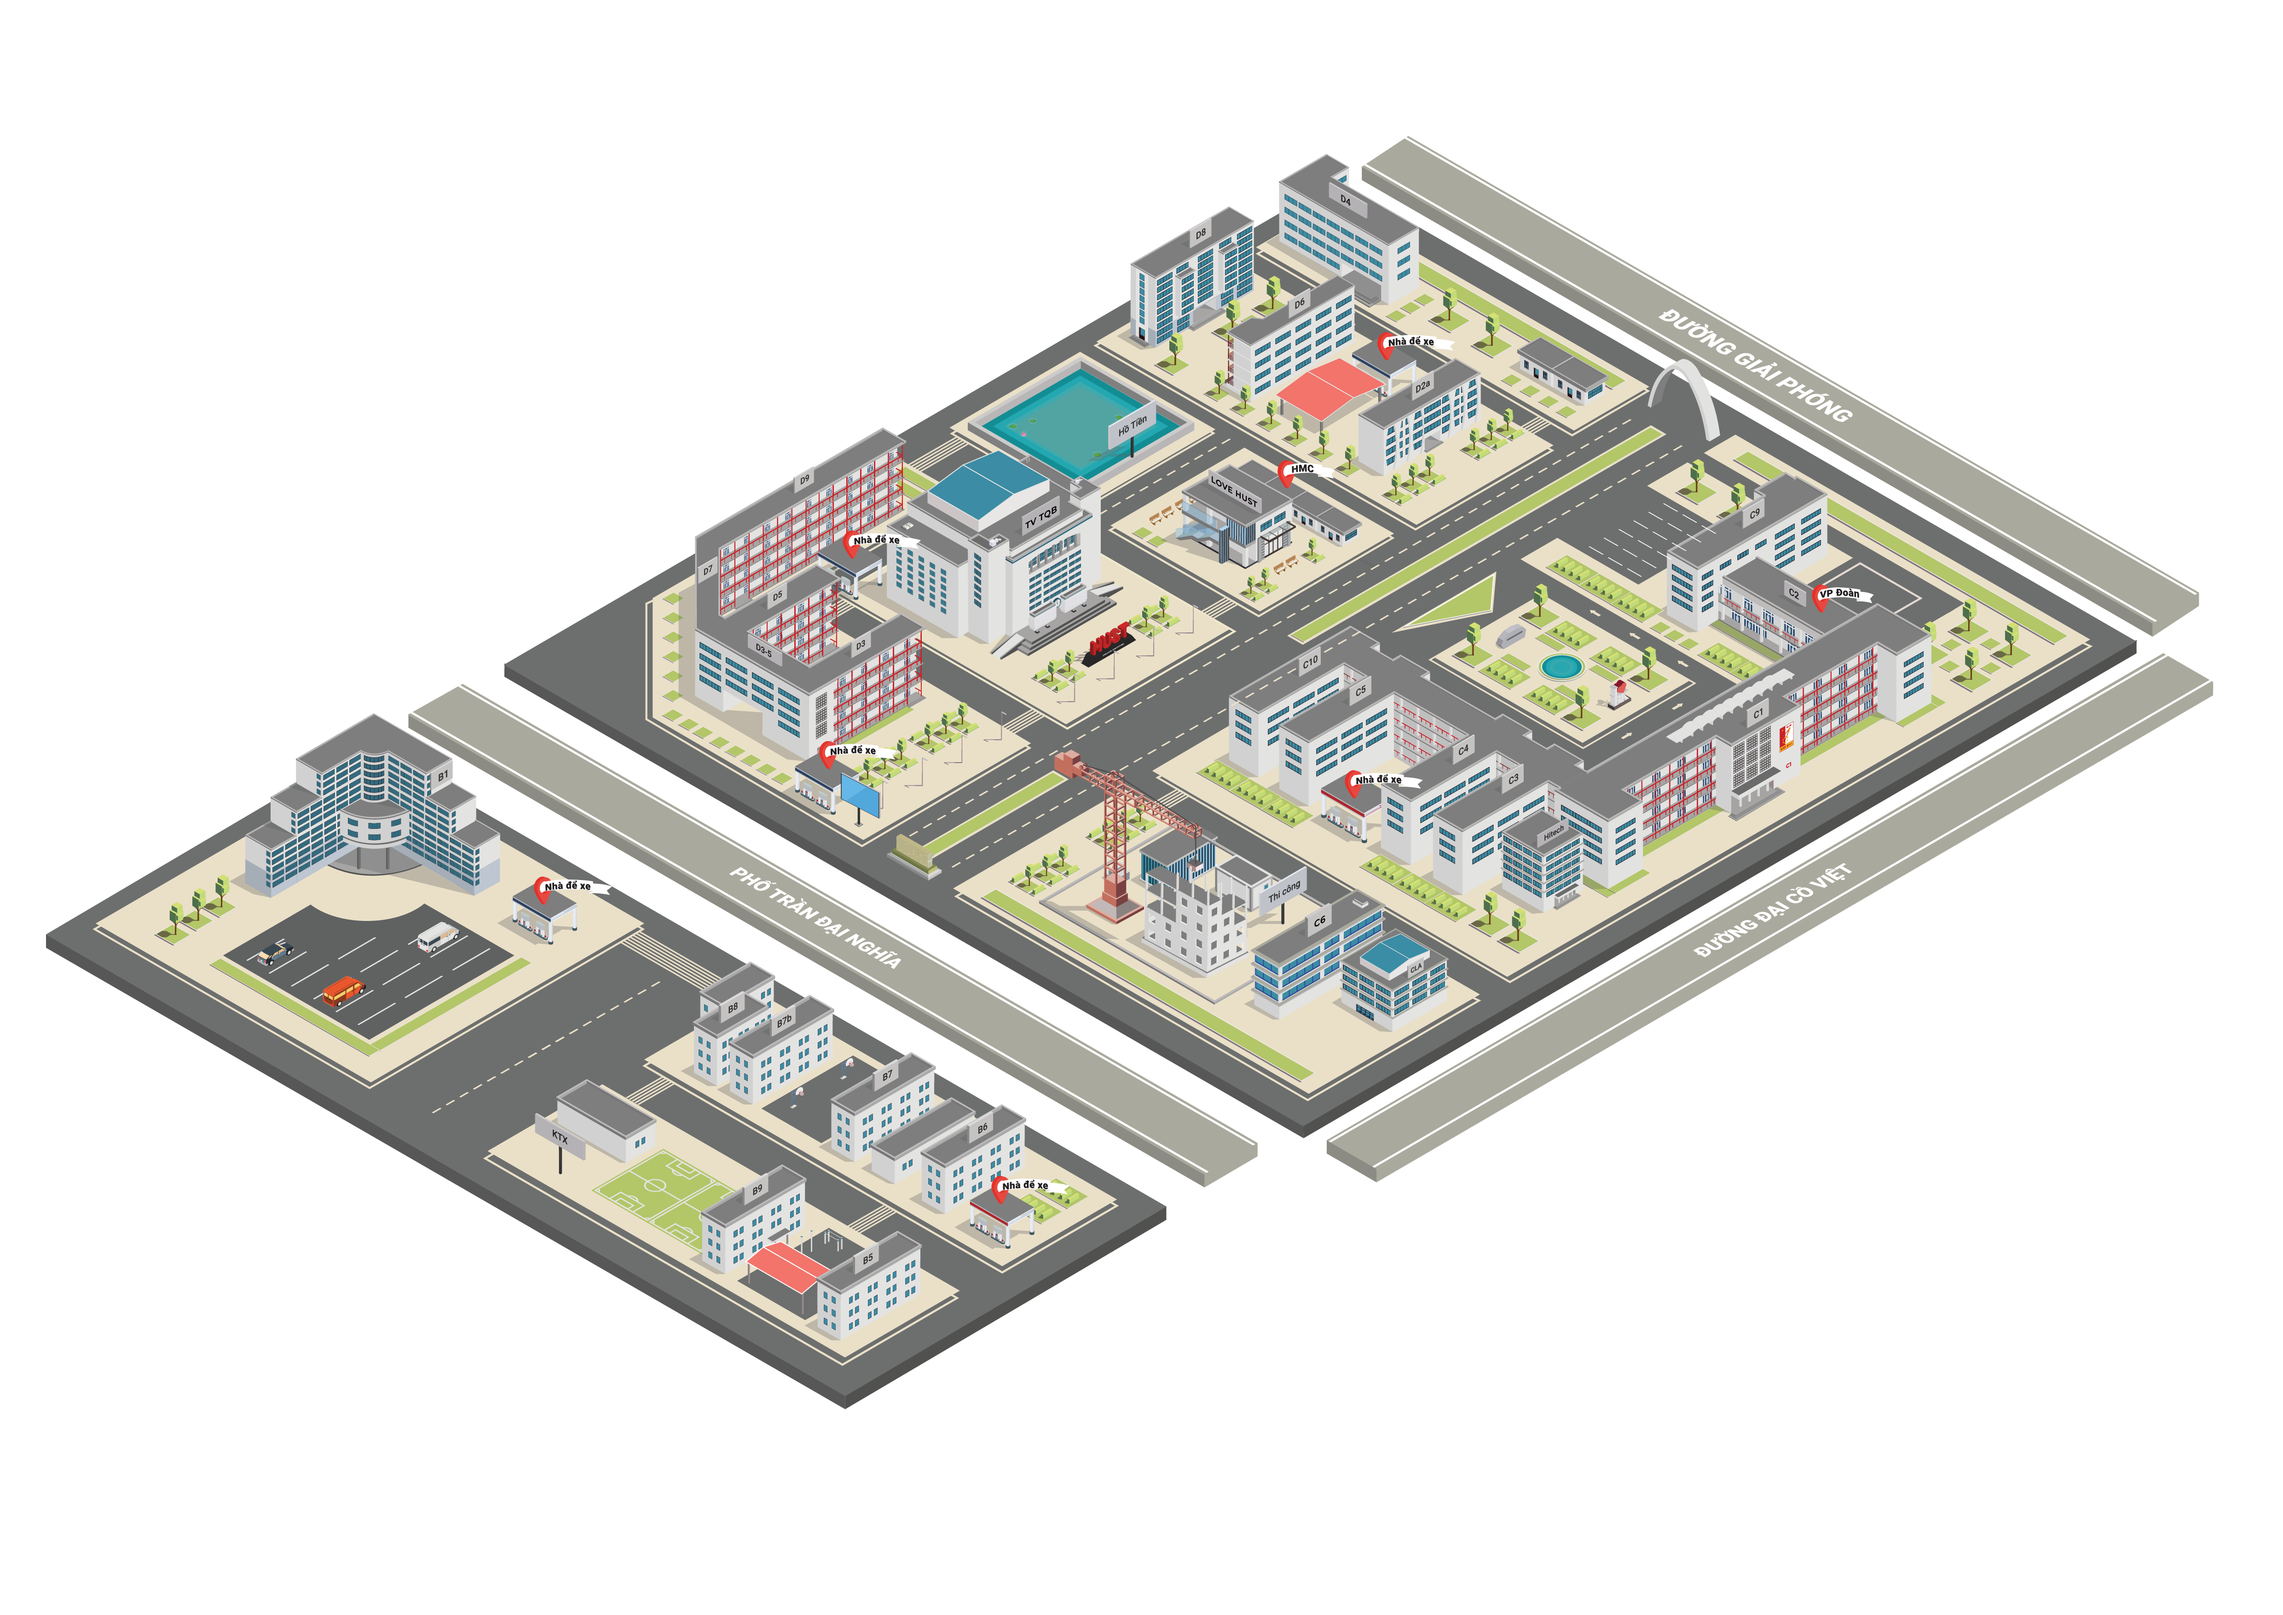
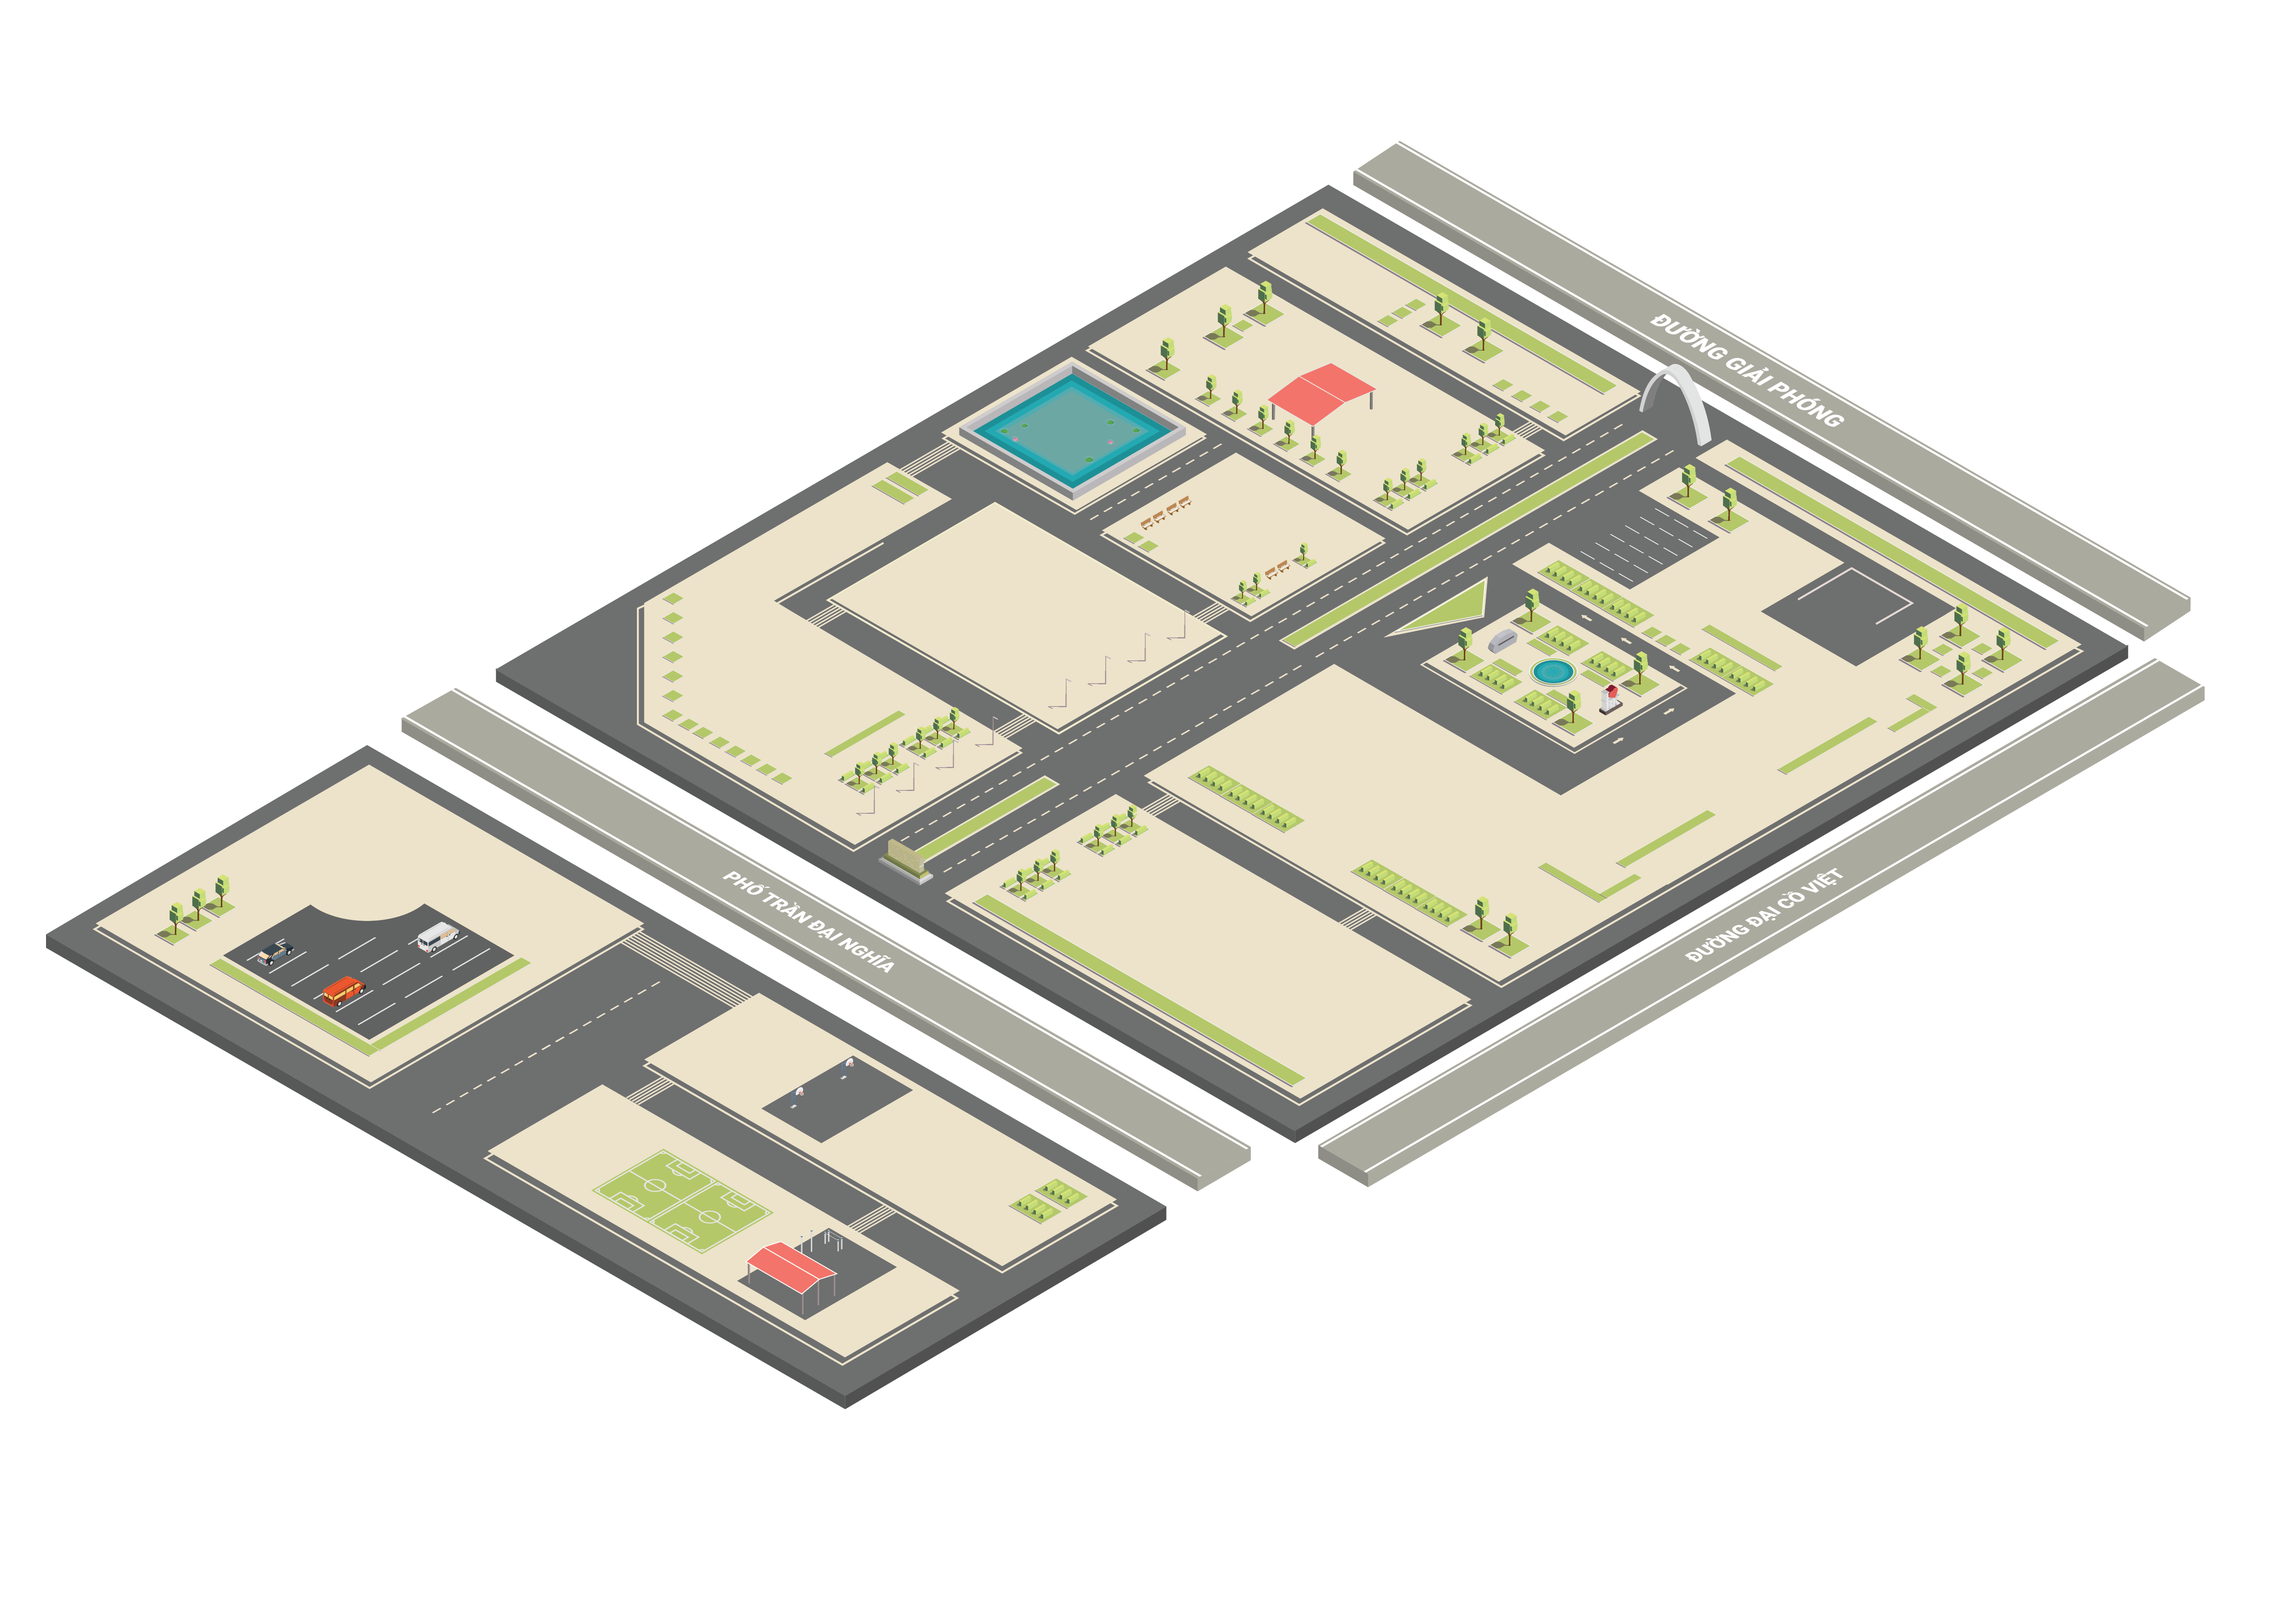
update map 70%

Changed region(s): [[0.0937, 0.0932, 0.9686, 0.8387], [0.7811, 0.5281, 0.8123, 0.5591], [0.7498, 0.5591, 0.7811, 0.5902]]

diff --git a/src/App.js b/src/App.js
@@ -8,19 +8,34 @@ import hitech from './components/NewBuilding/buildings/hitech.png';
 import c3c10 from './components/NewBuilding/buildings/c3-c10.png';
 import parkingB1 from './components/NewBuilding/buildings/parking-b1.png';
 import ktx from './components/NewBuilding/buildings/ktx.png';
+import d8 from './components/NewBuilding/buildings/d8.png';
+import d6 from './components/NewBuilding/buildings/d6.png';
+import c2c9 from './components/NewBuilding/buildings/c2-c9.png';
+import d2a from './components/NewBuilding/buildings/d2a.png';
+import hotien from './components/NewBuilding/buildings/ho-tien.png';
+import loveHust from './components/NewBuilding/buildings/love-hust.png';
+import hmc from './components/NewBuilding/buildings/hmc.png';
 
 function App({ className }) {
   return (
     <div className={className}>
       <Map />
-      <Building src={b1} width='8%' left='22.5%' translateY='375%' translateYHover='326%' scale='1.15' />
-      <Building src={parkingB1} width='2.9%' left='30.8%' translateY='1251%' translateYHover='1087.83%' scale='1.15' />
-      <Building src={ktx} width='14.7%' left=' 31.90%' translateY='248.2%' translateYHover='229.81%' scale='1.08' />
-      <Building src={parkingB1} width='2.9%' left=' 44.8%' translateY='1684%' translateYHover='1464.35%' scale='1.15' />
+      <Building src={b1} width='8%' left='22.5%' top='44.68%' scale='1.15' />
+      <Building src={parkingB1} width='2.95%' left='30.765%' top='53.6%' scale='1.15' />
+      <Building src={ktx} width='14.6%' left=' 31.90%' scale='1.08' top='58.26%' />
+      <Building src={parkingB1} width='2.9%' left=' 44.83%' scale='1.15' top='70.2%' />
+      <Building src={d8} width='3.86%' left='49.32%' scale='1.15' top='17.38%' />
+      <Building src={d6} width='4.15%' left='52.17%' scale='1.18' top='21.27%' />
+      <Building src={d2a} width='3.81%' left='56.39%' scale='1.18' top='25.6%' />
 
-      <Building src={c3c10} width='10.9%' left='52.64%' translateY='232.0%' translateYHover='201.74%' scale='1.15' />
-      <Building src={c1} width='11.48%' left='62.7%' translateY='213.0%' translateYHover='185.21%' scale='1.15' />
-      <Building src={hitech} width='2.8%' left='60.85%' translateY='710.99%' translateYHover='616.0%' scale='1.15' />
+      <Building src={hotien} width='6.99%' left='44.39%' scale='1.1' top='25.6%' />
+      <Building src={hmc} width='3.93%' left='52.57%' scale='1.09' top='31.32%' />
+      <Building src={loveHust} width='3.72%' left='50.75%' scale='1.18' top='31.42%' />
+
+      <Building src={c3c10} width='10.9%' left='52.4%' scale='1.15' top='40.22%' />
+      <Building src={c2c9} width='6.7%' left='65.80%' scale='1.15' top='31.85%' />
+      <Building src={c1} width='11.52%' left='62.47%' scale='1.15' top='39.17%' />
+      <Building src={hitech} width='2.6%' left='60.7%' scale='1.19' top='50.31%' />
     </div>
   );
 }
@@ -28,5 +43,6 @@ function App({ className }) {
 export default styled(App)`
   position: relative;
   width: 100vw;
-  height: 100vh;
+  height: calc(100vw * 9 / 16);
+  background: radial-gradient(65.91% 132.5% at 81.99% 13.1%, #00b8e5 0%, #0c91c1 34.53%, #263a73 100%);
 `;

diff --git a/src/components/Map/Map.js b/src/components/Map/Map.js
@@ -1,7 +1,7 @@
 import React from 'react';
 import styled from 'styled-components';
 
-import map from './map.png';
+import map from './map_b.png';
 
 const Map = ({ className }) => {
   return <img className={className} src={map} alt='' />;
@@ -11,5 +11,6 @@ export default styled(Map)`
   position: absolute;
   width: 70%;
   left: 50%;
-  transform: translateX(-50%);
+  transform: translate(-50%, -50%);
+  top: 50%;
 `;

diff --git a/src/components/NewBuilding/Building.js b/src/components/NewBuilding/Building.js
@@ -27,10 +27,10 @@ export default styled(Building)`
   width: ${(props) => props.width};
   left: ${(props) => props.left};
   transition: 300ms;
-  transform: translateY(${(props) => props.translateY});
+  top: ${(props) => props.top};
   z-index: 3;
 
   &:hover {
-    transform: scale(${(props) => props.scale}) translateY(${(props) => props.translateYHover});
+    transform: scale(${(props) => props.scale});
   }
 `;

diff --git a/src/index.css b/src/index.css
@@ -2,8 +2,6 @@
   margin: 0;
   padding: 0;
   box-sizing: border-box;
+
 }
 
-body {
-  background: radial-gradient(65.91% 132.5% at 81.99% 13.1%, #00B8E5 0%, #0C91C1 34.53%, #263A73 100%)
-}
